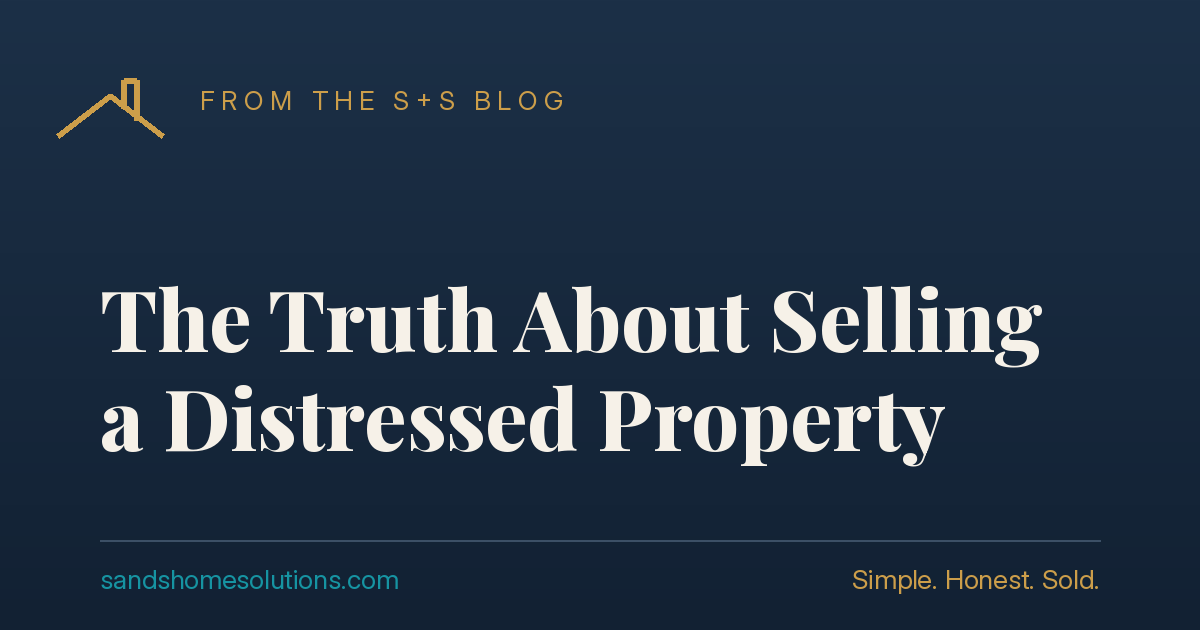
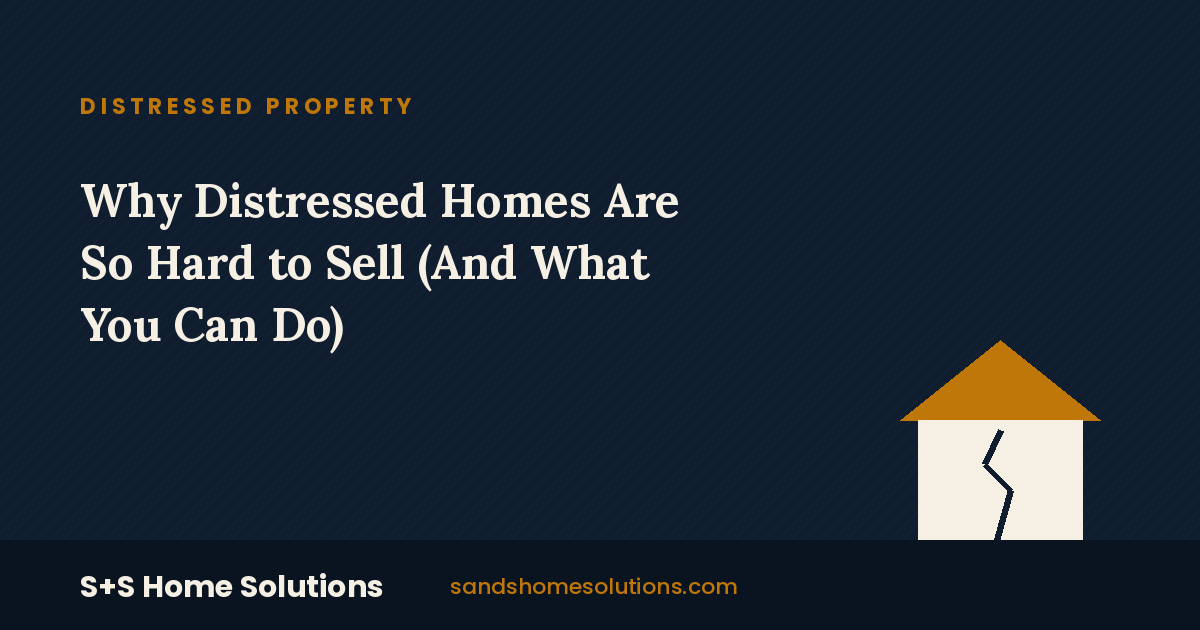
Blog Day 11: Why Distressed Homes Are So Hard to Sell (And What You Can Do)

diff --git a/blog/selling-a-distressed-property.html b/blog/selling-a-distressed-property.html
@@ -1,0 +1,193 @@
+<!DOCTYPE html>
+<html lang="en">
+<head>
+<meta charset="UTF-8" />
+<meta name="viewport" content="width=device-width, initial-scale=1.0" />
+
+<title>Why Distressed Homes Are So Hard to Sell (And What You Can Do) | S+S Home Solutions</title>
+<meta name="description" content="Fire damage, code violations, deferred maintenance. An honest look at why distressed properties struggle to sell traditionally, and what your real options actually are." />
+<meta name="robots" content="index, follow" />
+<link rel="canonical" href="https://sandshomesolutions.com/blog/selling-a-distressed-property.html" />
+
+<link rel="icon" type="image/png" href="../favicon.png" />
+<link rel="apple-touch-icon" href="../favicon.png" />
+
+<meta property="og:type" content="article" />
+<meta property="og:url" content="https://sandshomesolutions.com/blog/selling-a-distressed-property.html" />
+<meta property="og:title" content="Why Distressed Homes Are So Hard to Sell (And What You Can Do)" />
+<meta property="og:description" content="An honest look at why distressed properties struggle to sell traditionally, and what your real options actually are." />
+<meta property="og:image" content="https://sandshomesolutions.com/blog/images/selling-a-distressed-property.png" />
+<meta property="og:site_name" content="S+S Home Solutions" />
+
+<script type="application/ld+json">
+{
+  "@context": "https://schema.org",
+  "@type": "Article",
+  "headline": "Why Distressed Homes Are So Hard to Sell (And What You Can Do)",
+  "description": "An honest look at why distressed properties struggle to sell traditionally, and what your real options actually are.",
+  "image": "https://sandshomesolutions.com/blog/images/selling-a-distressed-property.png",
+  "author": { "@type": "Organization", "name": "S+S Home Solutions", "url": "https://sandshomesolutions.com/" },
+  "publisher": { "@type": "Organization", "name": "S+S Home Solutions", "logo": { "@type": "ImageObject", "url": "https://sandshomesolutions.com/family_photo_square.jpg" } },
+  "datePublished": "2026-07-16",
+  "mainEntityOfPage": "https://sandshomesolutions.com/blog/selling-a-distressed-property.html"
+}
+</script>
+
+<!-- Meta Pixel Code -->
+<script>
+!function(f,b,e,v,n,t,s)
+{if(f.fbq)return;n=f.fbq=function(){n.callMethod?
+n.callMethod.apply(n,arguments):n.queue.push(arguments)};
+if(!f._fbq)f._fbq=n;n.push=n;n.loaded=!0;n.version='2.0';
+n.queue=[];t=b.createElement(e);t.async=!0;
+t.src=v;s=b.getElementsByTagName(e)[0];
+s.parentNode.insertBefore(t,s)}(window, document,'script',
+'https://connect.facebook.net/en_US/fbevents.js');
+fbq('init', '2566509070444865');
+fbq('track', 'PageView');
+</script>
+<noscript><img height="1" width="1" style="display:none"
+src="https://www.facebook.com/tr?id=2566509070444865&ev=PageView&noscript=1"
+/></noscript>
+<!-- End Meta Pixel Code -->
+
+<link rel="preconnect" href="https://fonts.googleapis.com">
+<link rel="preconnect" href="https://fonts.gstatic.com" crossorigin>
+<link href="https://fonts.googleapis.com/css2?family=Fraunces:opsz,wght@9..144,400;9..144,600;9..144,800;9..144,900&family=Inter+Tight:wght@400;500;600;700&display=swap" rel="stylesheet">
+
+<style>
+  :root {
+    --ink: #0f1d2e; --ink-soft: #1c2d44; --cream: #f5efe4; --cream-deep: #ecdfc8;
+    --paper: #fbf8f1; --signal: #bf770a; --signal-deep: #9c6108; --moss: #1694a2;
+    --serif: 'Fraunces', Georgia, serif; --sans: 'Inter Tight', system-ui, sans-serif;
+  }
+  * { box-sizing: border-box; margin: 0; padding: 0; }
+  html { scroll-behavior: smooth; }
+  body { font-family: var(--sans); background: var(--paper); color: var(--ink); line-height: 1.65; -webkit-font-smoothing: antialiased; }
+  nav { background: rgba(251, 248, 241, 0.95); border-bottom: 1px solid rgba(15,29,46,0.08); padding: 18px 0; position: sticky; top: 0; z-index: 90; backdrop-filter: blur(8px); }
+  .nav-wrap { max-width: 1100px; margin: 0 auto; padding: 0 28px; display: flex; align-items: center; justify-content: space-between; }
+  .logo { font-family: var(--serif); font-weight: 900; font-size: 22px; letter-spacing: -0.02em; text-decoration: none; color: var(--ink); }
+  .logo span { color: var(--signal); }
+  .nav-phone { font-family: var(--serif); font-weight: 700; font-size: 18px; color: var(--ink); text-decoration: none; }
+  .article-hero { background: var(--ink); color: var(--cream); padding: 72px 28px 56px; }
+  .article-hero-inner { max-width: 760px; margin: 0 auto; }
+  .breadcrumb { font-size: 13px; letter-spacing: 0.05em; color: var(--signal); margin-bottom: 18px; font-weight: 600; text-transform: uppercase; }
+  .breadcrumb a { color: rgba(245,239,228,0.6); text-decoration: none; }
+  .breadcrumb a:hover { color: var(--signal); }
+  h1 { font-family: var(--serif); font-weight: 900; font-size: clamp(28px, 4vw, 44px); line-height: 1.15; letter-spacing: -0.02em; margin-bottom: 20px; }
+  .hero-deck { font-size: 19px; line-height: 1.5; color: rgba(245,239,228,0.85); }
+  article { max-width: 760px; margin: 0 auto; padding: 56px 28px 80px; font-size: 18px; }
+  article p { margin-bottom: 22px; color: var(--ink-soft); }
+  article h2 { font-family: var(--serif); font-size: clamp(26px, 3.2vw, 34px); font-weight: 800; line-height: 1.15; color: var(--ink); margin: 40px 0 16px; letter-spacing: -0.02em; }
+  article h2:first-of-type { margin-top: 0; }
+  article h3 { font-family: var(--serif); font-size: 22px; font-weight: 700; color: var(--ink); margin: 32px 0 12px; letter-spacing: -0.01em; }
+  article strong { color: var(--ink); font-weight: 600; }
+  article a { color: var(--moss); text-decoration: underline; text-underline-offset: 3px; font-weight: 500; }
+  article a:hover { color: var(--signal); }
+  article ul, article ol { margin: 0 0 24px 0; padding-left: 28px; color: var(--ink-soft); }
+  article li { margin-bottom: 10px; }
+  article li::marker { color: var(--signal); }
+  .callout { background: var(--cream); border-left: 4px solid var(--signal); padding: 24px 28px; margin: 28px 0; border-radius: 4px; }
+  .callout h4 { font-family: var(--serif); font-size: 17px; font-weight: 800; color: var(--ink); margin-bottom: 8px; letter-spacing: 0.02em; text-transform: uppercase; }
+  .callout p { font-size: 16px; margin-bottom: 0; }
+  .options { display: grid; gap: 16px; margin: 28px 0; }
+  .option { background: var(--paper); border: 1.5px solid var(--cream-deep); border-radius: 4px; padding: 22px 26px; }
+  .option h3 { margin-top: 0; margin-bottom: 8px; }
+  .option p { font-size: 16px; margin-bottom: 0; }
+  .inline-cta { background: var(--ink); color: var(--cream); padding: 36px 32px; border-radius: 4px; margin: 40px 0 0; text-align: center; }
+  .inline-cta h3 { font-family: var(--serif); font-size: 26px; font-weight: 800; color: var(--cream); margin: 0 0 10px; letter-spacing: -0.01em; }
+  .inline-cta p { color: rgba(245,239,228,0.8); margin-bottom: 20px; font-size: 16px; }
+  .cta-btn { display: inline-block; background: var(--signal); color: white; padding: 14px 28px; border-radius: 4px; font-weight: 700; text-decoration: none; font-size: 16px; transition: background 0.2s, transform 0.15s; }
+  .cta-btn:hover { background: var(--signal-deep); transform: translateY(-1px); color: white; }
+  .cta-secondary { margin-top: 14px; font-size: 14px; }
+  .cta-secondary a { color: rgba(245,239,228,0.75); text-decoration: underline; }
+  .cta-secondary a:hover { color: var(--signal); }
+  footer { background: var(--ink); color: rgba(245,239,228,0.7); padding: 40px 28px; text-align: center; font-size: 14px; }
+  footer a { color: var(--signal); text-decoration: none; }
+</style>
+</head>
+<body>
+
+<nav>
+  <div class="nav-wrap">
+    <a href="/" class="logo">S<span>+</span>S Home Solutions</a>
+    <a href="tel:[phone redacted]" class="nav-phone">[phone redacted]</a>
+  </div>
+</nav>
+
+<header class="article-hero">
+  <div class="article-hero-inner">
+    <div class="breadcrumb"><a href="/blog/">← Back to blog</a> · Distressed Property</div>
+    <h1>Why distressed homes are so hard to sell (and what you can do).</h1>
+    <p class="hero-deck">Fire damage, code violations, deferred maintenance that piled up for years. Here's an honest look at why these homes struggle to sell traditionally, and what your real options are.</p>
+  </div>
+</header>
+
+<article>
+
+<p>There's a specific kind of stress that comes with owning a property that isn't just outdated, but genuinely distressed. Maybe there was a fire. Maybe the roof has been failing for three winters and water damage has spread further than you can see. Maybe the city has sent notices about code violations you don't have the money or time to fix. Whatever the specifics, the common thread is the same: this house doesn't fit neatly into a normal sale, and every path forward feels harder than it should.</p>
+
+<p>Here's what's actually true about selling a property like this, without sugarcoating it, and without assuming the worst either.</p>
+
+<h2>Why a distressed property struggles in a traditional sale</h2>
+
+<p>Most buyers shopping for a home are planning to live in it, and most of them need a mortgage to do that. That combination creates two separate obstacles for a distressed property.</p>
+
+<h3>The financing problem</h3>
+
+<p>Conventional and FHA loans both require the home to meet minimum condition standards, verified through a lender-ordered appraisal. A home with major structural issues, missing systems, or safety hazards often won't qualify, no matter how motivated the buyer is. This isn't a matter of the buyer's creditworthiness, it's the property itself failing to meet the lender's baseline. That single fact eliminates a large share of the traditional buyer pool before anyone even makes an offer.</p>
+
+<h3>The insurance problem</h3>
+
+<p>Buyers who do have cash, or who are willing to pursue a renovation loan, still need homeowners insurance to close, and insurers routinely decline to write policies on homes with fire damage, active code violations, or a history of water intrusion until repairs are made. That creates a chicken-and-egg problem: the buyer can't close without insurance, and can't get insurance until the very repairs a distressed-property seller usually can't afford to make first.</p>
+
+<h3>The perception problem</h3>
+
+<p>Even buyers who could technically work around the financing and insurance issues are often simply scared off. A home with visible fire damage or a stack of city notices reads as risk and unknown cost, and most people shopping for a home to live in aren't looking to take on a renovation project, especially not an unpredictable one.</p>
+
+<h2>What code violations actually mean for a sale</h2>
+
+<p>If your property has open code violations, it's worth understanding what that actually does to a sale, since it's often misunderstood. In many municipalities, unresolved violations can attach to the property itself, not just the current owner, meaning they follow the title until they're resolved. Some cities place liens for unpaid fines or emergency repairs the city performed itself, which then need to be cleared before a clean sale can close. This is exactly the kind of thing that can quietly stall a traditional closing for months while it gets sorted out, another reason distressed properties don't move at a normal pace on the open market.</p>
+
+<div class="callout">
+  <h4>A note on hoarding or extreme clutter</h4>
+  <p>If a home is distressed due to extensive clutter or hoarding rather than structural damage, that's a genuinely different situation, and one that often comes with real emotional weight, whether it's your own home or one you've inherited. It doesn't need to be cleaned out before you talk to us. We assess the property as it is and handle what's inside as part of the process.</p>
+</div>
+
+<h2>What your real options actually are</h2>
+
+<div class="options">
+  <div class="option">
+    <h3>Repair it yourself, then sell traditionally</h3>
+    <p>This can net the highest price, if you have the cash reserves, the time, and the tolerance for managing contractors on a property that may have hidden issues once work begins. For many people in this situation, one or more of those three things isn't available right now, which is exactly why this option isn't realistic for everyone.</p>
+  </div>
+  <div class="option">
+    <h3>List it as-is and hope for an investor buyer</h3>
+    <p>Some real estate agents do work with investor networks, but this often means a longer time on market, multiple price reductions, and still ultimately selling to the same type of cash buyer you could have worked with directly, just with a commission taken out along the way.</p>
+  </div>
+  <div class="option">
+    <h3>Sell directly to a cash buyer</h3>
+    <p>We buy homes in genuinely distressed condition, fire damage, active code violations, deferred maintenance, all of it. We factor the real condition into our offer, handle any outstanding violations or liens as part of the closing process, and close on a timeline that doesn't depend on a buyer's financing or insurance approval.</p>
+  </div>
+</div>
+
+<h2>Being honest about what to expect</h2>
+
+<p>A distressed property will not sell for the same number as a comparable home in good condition, no matter which path you choose. That's simply the reality of the repair costs and risk involved, whether you're the one paying for renovations before a traditional sale, or a cash buyer is factoring that cost into their offer instead. What a direct cash sale changes isn't that math, it's who takes on the burden and the risk of the unknown, and how quickly you can be done with it.</p>
+
+<div class="inline-cta">
+  <h3>Whatever shape it's in, we'll make an offer.</h3>
+  <p>Get a free home consultation and explore flexible options for your property exactly as it stands today, violations, damage, and all.</p>
+  <a href="/#offer-form" class="cta-btn">Get Your Free Home Consultation</a>
+  <div class="cta-secondary"><a href="/schedule.html">Or schedule a quick call instead →</a></div>
+</div>
+
+</article>
+
+<footer>
+  <p><strong>S+S Home Solutions</strong> · <a href="tel:[phone redacted]">[phone redacted]</a> · <a href="/schedule.html">Schedule a Call</a> · <a href="/">Get a Cash Offer</a></p>
+  <p style="margin-top: 12px; font-size: 12px; color: rgba(245,239,228,0.4);">© 2026 S+S Home Solutions. Your timing. Our solution.</p>
+</footer>
+
+</body>
+</html>

diff --git a/blog/index.html b/blog/index.html
@@ -387,6 +387,17 @@
       </div>
     </a>
 
+    <a href="selling-a-distressed-property.html" class="post-card">
+      <span class="post-tag">Distressed Property</span>
+      <h2>Why Distressed Homes Are So Hard to Sell (And What You Can Do)</h2>
+      <p>Fire damage, code violations, deferred maintenance that piled up for years. An honest look at why these homes struggle to sell traditionally, and what your real options actually are.</p>
+      <div class="post-meta">
+        <span>July 2026</span>
+        <span>·</span>
+        <span class="read-more">Read the guide →</span>
+      </div>
+    </a>
+
   </div>
 
 </main>